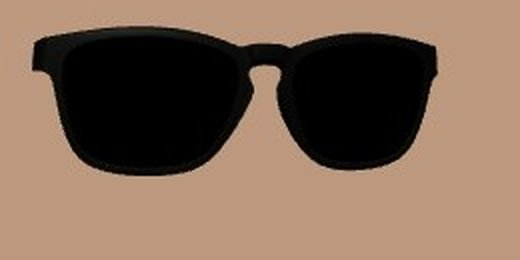
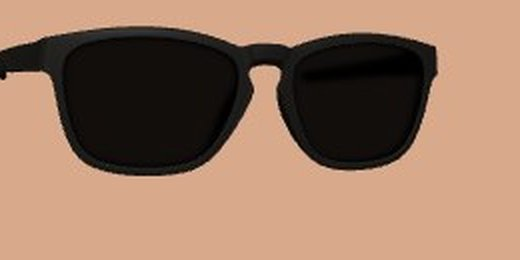
TORINOX カラー確認: Amazonの実表示に合わせて明るさ補正なしで描画・一覧画像を撮り直し (2026-10-23e)
入稿済みMOTION黒のAmazon試着画面で、レンズ越しの肌の明るさが透過率8%どおり（約10〜13%）と実測→同じ描き方に

diff --git a/tryon-torinox-x7k2/colors.html b/tryon-torinox-x7k2/colors.html
@@ -85,7 +85,7 @@
   <div id="grades"></div>
   <div class="note">
     <b>見え方について</b><br>
-    ・3DはAmazonの試着と同じく、反射・映り込みなしで描いています。背景は切り替えられます。「肌色」はレンズ越しに顔が透ける試着に近い見え方です。<br>
+    ・3DはAmazonの試着と同じ描き方（反射・映り込みなし、明るさ補正なし）にしています。入稿済みのMOTION黒で、Amazonの実際の試着画面とレンズの暗さ・色味が一致することを確認済みです。背景は切り替えられます。「肌色」はレンズ越しに顔が透ける試着に近い見え方です。<br>
     ・ミラーは、Amazonの試着が反射を描かないため、海外Amazonで試着に対応している他社のミラーレンズと同じく「色付きのグラデーションレンズ」で表現しています（商品写真のミラーの色を、上下のグラデーション＋斜めの明るい帯としてレンズの色に入れたもの）。<br>
     ・調光は、かける人の右のレンズを反応前（明るい）、左を反応後（暗い）にしています（正面から見ると明るいレンズが向かって左）。<br>
     ・「入稿済み」はAmazonに入稿済みのモデル（ARQ＝2026-10-06版、MOTION＝2026-10-15版）そのものです。
@@ -106,7 +106,7 @@ import { DRACOLoader } from 'three/addons/loaders/DRACOLoader.js';
 import { OrbitControls } from 'three/addons/controls/OrbitControls.js';
 
 const $ = id => document.getElementById(id);
-const CV = '20261023d';
+const CV = '20261023e';
 const MODELS = {
   A: { name:'ARQ', shape:'角型', thumb:'ARQ_BASE' },
   C: { name:'MOTION', shape:'角型', thumb:'MO_BASE' },
@@ -138,7 +138,7 @@ const BGS = [ ['肌色', 0xd9b49c], ['白', 0xf2f2f2], ['グレー', 0x8a8a8a], 
 const canvas = $('cv');
 const renderer = new THREE.WebGLRenderer({ canvas, antialias:true });
 renderer.outputColorSpace = THREE.SRGBColorSpace;
-renderer.toneMapping = THREE.ACESFilmicToneMapping; renderer.toneMappingExposure = 1.0;
+renderer.toneMapping = THREE.NoToneMapping;   // Amazonの実表示（2026-10-23 MOTION黒の試着画面で実測）は明るさ補正なしの物理的な透過だったので合わせる
 const scene = new THREE.Scene();
 // Amazonの試着は反射を描かない（海外Amazonの他社商品で確認）→ 周囲の映り込み（環境マップ）は使わず、普通の照明だけで描く
 scene.add(new THREE.HemisphereLight(0xffffff, 0x8a8a8a, 1.6));
